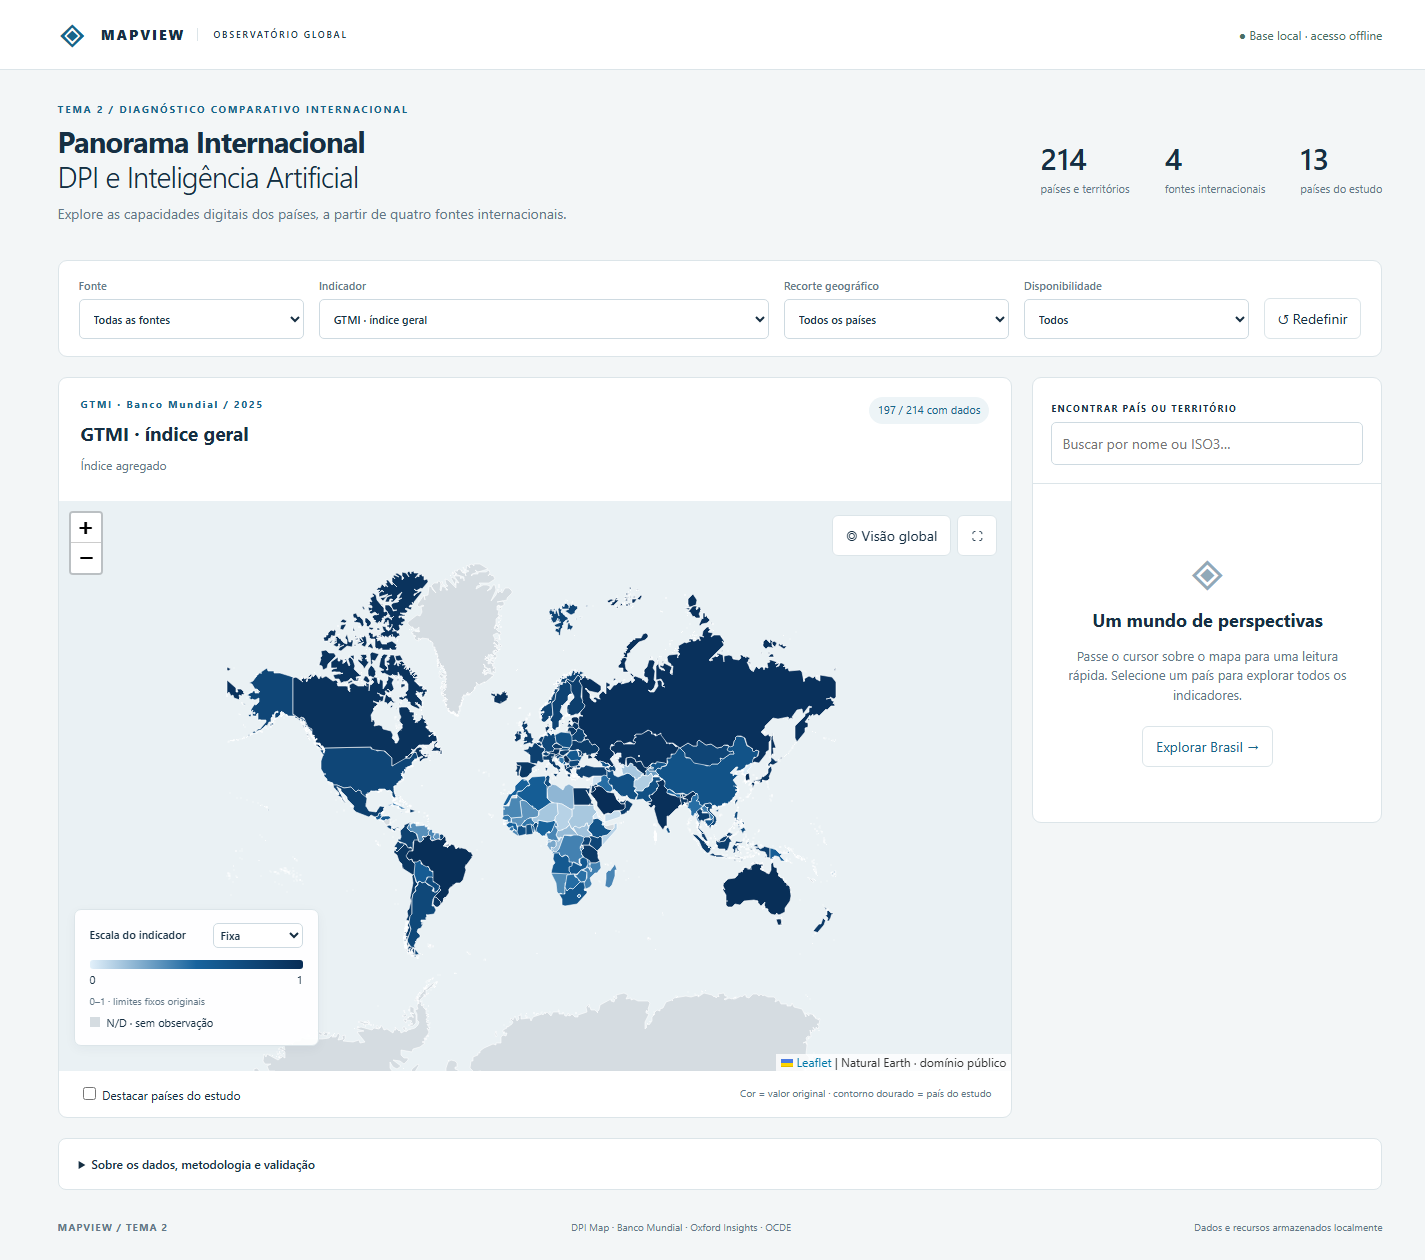
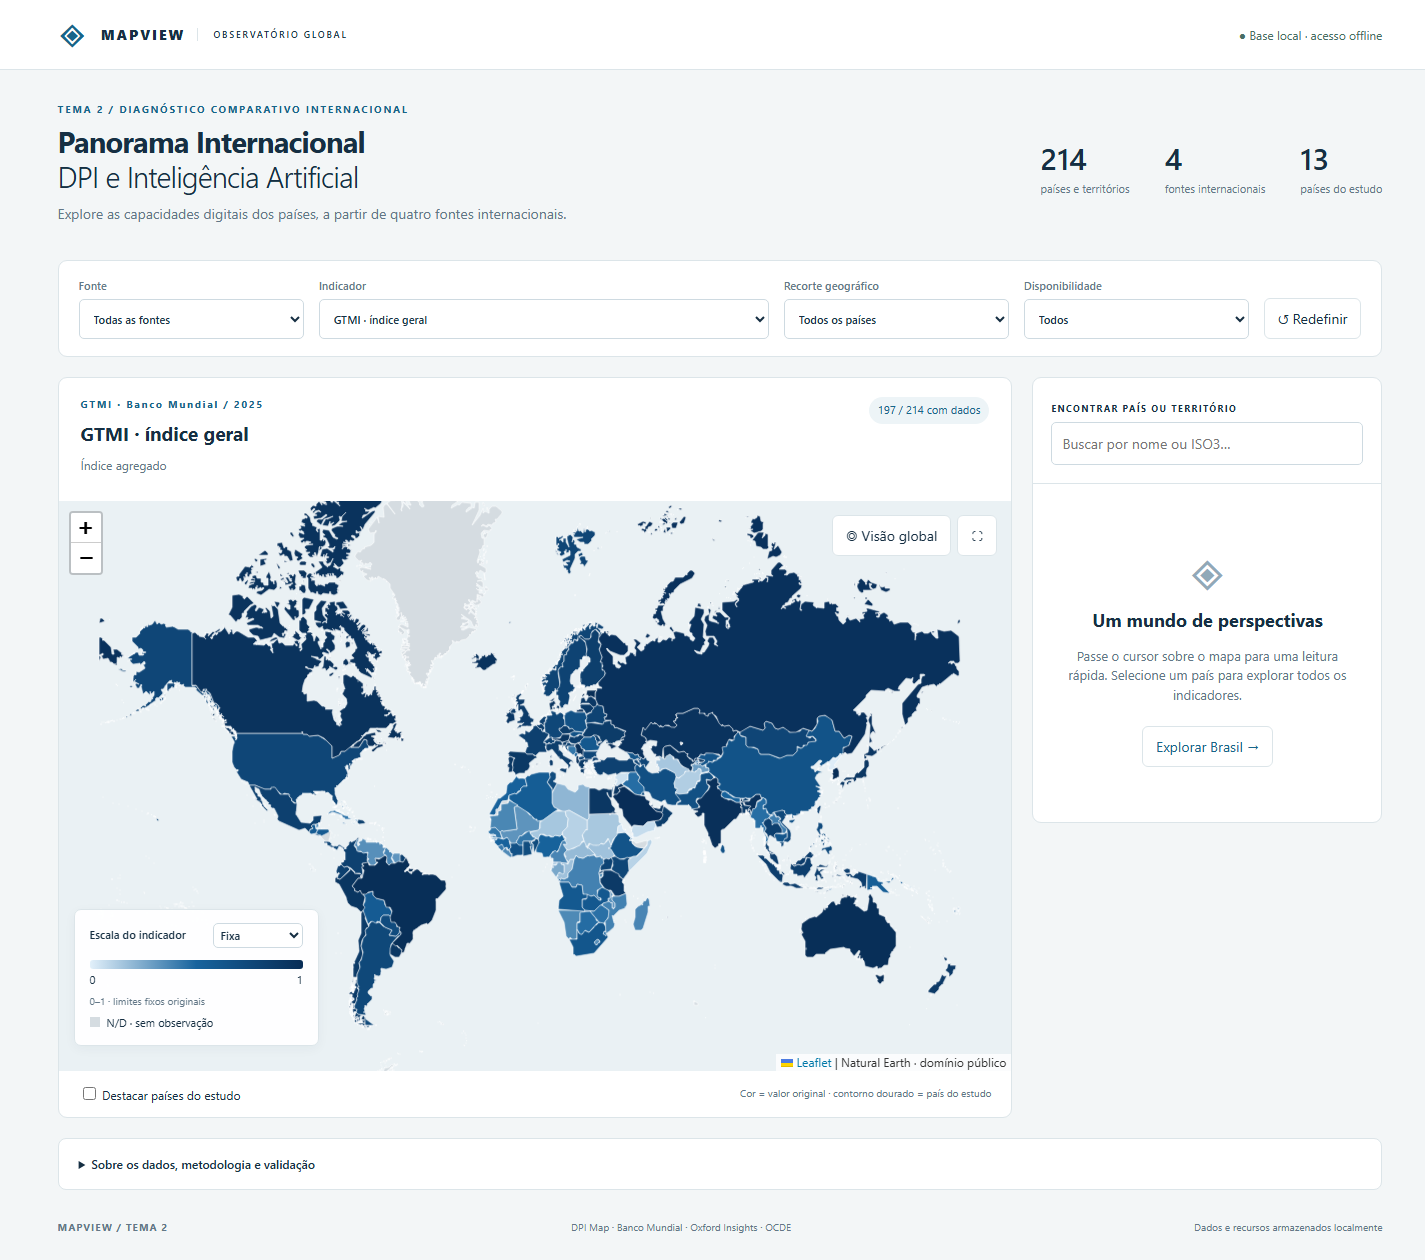
Ajustes de apresentação do popup.

Changed region(s): [[0.0618, 0.3714, 0.6793, 0.8048], [0.4014, 0.4024, 0.4323, 0.4333]]

diff --git a/css/style.css b/css/style.css
@@ -1,2 +1,17 @@
 *{box-sizing:border-box} :root{--ink:#162f43;--muted:#627787;--line:#dce5e9;--blue:#17658a;--gold:#bd882b}body{margin:0;background:#f3f6f7;color:var(--ink);font:14px/1.5 "Segoe UI",Arial,sans-serif}button,input,select{font:inherit}button,select,summary{cursor:pointer}button{border:1px solid var(--line);background:#fff;color:var(--ink);border-radius:6px;padding:9px 13px}button:hover{background:#edf4f7}button:focus-visible,a:focus-visible,input:focus-visible,select:focus-visible,summary:focus-visible{outline:3px solid #d09b38;outline-offset:2px}header{background:#fff;border-bottom:1px solid var(--line);height:70px;padding:0 4%;display:flex;align-items:center;justify-content:space-between}.brand{display:flex;align-items:center;gap:12px;font-weight:800;letter-spacing:2px;text-decoration:none;color:var(--ink)}.brand-icon{font-size:34px;color:var(--blue)}.brand small{font-size:9px;letter-spacing:1.8px;border-left:1px solid var(--line);padding-left:15px;font-weight:600}.offline{color:#476f65;font-size:12px}.intro{display:flex;justify-content:space-between;align-items:center;padding:32px 4% 28px;gap:30px}.eyebrow{font-size:10px;letter-spacing:1.7px;font-weight:700;color:var(--blue);margin:0 0 7px}h1{font-size:29px;line-height:1.22;margin:0;font-weight:650;letter-spacing:-.8px}h1 span{display:block;font-weight:350}h2{font-size:19px;margin:0}p{margin:8px 0;color:var(--muted)}.intro-stats{display:flex;gap:35px}.intro-stats strong{font-size:30px;font-weight:500}.intro-stats small{display:block;font-size:11px;color:var(--muted);font-weight:400}main{padding:0 4%}.controls{display:flex;gap:15px;align-items:end;background:#fff;border:1px solid var(--line);padding:17px 20px;border-radius:9px;margin-bottom:20px}.controls label{flex:1;min-width:100px;font-size:11px;font-weight:600;color:var(--muted)}.controls .indicator-control{flex:2}select,input[type=search]{width:100%;padding:10px;background:#fff;border:1px solid #cedae1;border-radius:5px;color:var(--ink);margin-top:5px;min-height:40px}.text-button{white-space:nowrap}.workspace{display:grid;grid-template-columns:minmax(0,1fr) 350px;gap:20px;align-items:start}.map-card,aside{border:1px solid var(--line);border-radius:9px;background:#fff;overflow:hidden}.map-heading{display:flex;justify-content:space-between;align-items:start;padding:19px 22px;gap:16px;min-height:115px}.map-heading p:last-child{font-size:12px;max-width:700px}.badge{background:#edf4f7;color:var(--blue);white-space:nowrap;font-size:11px;padding:5px 9px;border-radius:20px}.map-wrap{height:570px;position:relative;background:#eaf1f4}#map{height:100%;background:#eaf1f4}.map-actions{position:absolute;z-index:500;right:14px;top:14px;display:flex;gap:6px}.legend{position:absolute;z-index:500;left:15px;bottom:25px;width:245px;padding:13px 15px;background:#ffffffed;border:1px solid var(--line);border-radius:7px;font-size:11px;box-shadow:0 3px 12px #17344a0b}.legend-title{display:flex;align-items:center;justify-content:space-between;font-weight:600}.legend select{width:90px;font-size:11px;padding:3px;min-height:25px;margin:0}.gradient{height:9px;background:linear-gradient(90deg,#e2f0fa,#17639d,#082d56);border-radius:3px;margin:12px 0 3px}.legend-range{display:flex;justify-content:space-between}.legend p{font-size:10px;margin:6px 0}.no-data{display:inline-block;width:10px;height:10px;background:#d5dce1;margin-right:4px}.map-bottom{display:flex;justify-content:space-between;gap:12px;align-items:center;padding:13px 20px;font-size:10px;color:var(--muted)}.highlight{color:var(--ink);font-size:12px;cursor:pointer}.highlight input{accent-color:var(--gold)}.search-block{padding:18px;border-bottom:1px solid var(--line)}.search-block label{font-size:9px;font-weight:700;letter-spacing:1.4px}#results{max-height:210px;overflow:auto}#results button{display:block;width:100%;text-align:left;border:0;border-radius:0;border-bottom:1px solid var(--line);font-size:12px}.empty{padding:55px 25px;text-align:center}.empty>span{display:block;font-size:45px;color:#91a9b8}.empty h2{font-size:18px}.empty p{font-size:13px;margin:12px 0 22px}.empty button{color:var(--blue)}#country-panel{max-height:650px;overflow:auto}.country-header{padding:20px}.country-header small{font-size:11px;color:var(--muted)}.country-header h2{font-size:25px;margin:5px 0}.country-header .featured{background:#edf4f8;padding:14px;margin-top:14px;border-radius:6px}.featured strong{display:block;font-size:26px;color:var(--blue)}.country-source{border-top:1px solid var(--line);padding:12px 18px}.country-source summary{font-size:12px;font-weight:700}.metric{padding:10px 0;border-bottom:1px solid #edf1f3;font-size:12px}.metric>div{display:flex;justify-content:space-between;gap:10px}.metric strong{word-break:break-word;text-align:right}.metric p{font-size:11px;margin:4px 0}.metric small{color:var(--muted);font-size:10px}.metric a{color:var(--blue)}.export{margin-top:14px;width:100%;color:var(--blue)}.methodology{border:1px solid var(--line);border-radius:8px;background:white;margin:20px 0;padding:16px 20px;font-size:12px}.methodology summary{font-weight:600}#methodology-content{margin-top:16px;max-width:1000px}#methodology-content a{color:var(--blue)}.regional-table{overflow:auto}.regional-table table{border-collapse:collapse;width:100%;font-size:11px}.regional-table td,.regional-table th{padding:7px;text-align:left;border-bottom:1px solid var(--line)}footer{display:flex;justify-content:space-between;gap:20px;padding:10px 4% 25px;font-size:10px;color:var(--muted)}footer span:first-child{font-weight:700;letter-spacing:1px}.leaflet-tooltip.mv-tooltip{width:310px;max-height:70vh;overflow:auto;white-space:normal;padding:14px;border:1px solid var(--line);font:12px/1.5 "Segoe UI",Arial,sans-serif;color:var(--ink)}.tip-title{font-size:17px;font-weight:700}.tip-active{padding:7px 0;color:var(--blue);font-weight:600}.tip-section{border-top:1px solid var(--line);padding:6px 0}.tip-section b{font-size:10px}.tip-row{display:flex;justify-content:space-between;gap:12px}.tip-systems{font-size:10px;color:var(--muted)}.leaflet-container{font-family:"Segoe UI",Arial,sans-serif}.map-wrap:fullscreen{height:100vh}.map-wrap:fullscreen #map{height:100vh}@media(min-width:1650px){.map-wrap{height:650px}}@media(max-width:1100px){.workspace{grid-template-columns:minmax(0,1fr) 300px}.controls{flex-wrap:wrap}.controls label{flex:1 1 25%}.intro-stats{gap:18px}.map-bottom{flex-wrap:wrap}}@media(max-width:780px){.intro{display:block;padding-top:24px}.intro-stats{margin-top:22px;justify-content:space-between}.brand small,.offline{display:none}.workspace{grid-template-columns:1fr}.map-wrap{height:500px}.controls{padding:12px;gap:10px}.controls label,.controls .indicator-control{flex:1 1 45%}h1{font-size:26px}.map-heading{padding:14px;display:block}.badge{display:inline-block;margin-top:6px}.map-actions button{font-size:11px}.map-bottom>span{display:none}footer{flex-wrap:wrap}#country-panel{max-height:600px}.empty{padding:25px}.legend{width:210px}}
 .leaflet-tooltip.mv-tooltip{max-height:430px;font-size:11px}.tip-row{line-height:1.35}.tip-section{padding:4px 0}.tip-systems{line-height:1.3}
+
+/* Wider country summaries: two columns avoid scrolling on desktop. */
+.leaflet-tooltip.mv-tooltip,.mv-country-popup .leaflet-popup-content{
+ width:520px;max-width:calc(100vw - 64px);max-height:min(650px,calc(100vh - 100px));
+ overflow:auto;white-space:normal;font:12px/1.45 "Segoe UI",Arial,sans-serif;color:var(--ink);
+}
+.mv-country-popup .leaflet-popup-content{margin:16px 20px}
+.tip-toolbar{display:flex;justify-content:flex-end;align-items:center;gap:10px;margin-bottom:4px}
+.tip-copy{display:inline-flex;align-items:center;gap:6px;padding:5px 8px;font-size:11px}
+.tip-copy-status{font-size:11px;color:var(--blue)}
+.tip-grid{display:grid;grid-template-columns:1fr 1fr;gap:8px 18px;align-items:start}
+.tip-section{min-width:0;padding:7px 0}.tip-row{line-height:1.5}.tip-row span{min-width:0}
+.tip-systems{overflow-wrap:anywhere;margin-top:5px}.tip-help{display:block;margin-top:8px;color:var(--muted)}
+.mv-country-popup .leaflet-popup-close-button{top:1px;right:2px}
+@media(max-width:540px){.tip-grid{grid-template-columns:1fr;gap:4px}.leaflet-tooltip.mv-tooltip,.mv-country-popup .leaflet-popup-content{width:300px;max-height:calc(100vh - 110px)}}

diff --git a/js/tooltip.js b/js/tooltip.js
@@ -2,7 +2,7 @@
 MV.tooltip=c=>{
  const e=MV.escape,i=MV.active();if(!c)return '<b>Sem registro na planilha</b>';
  const row=(label,key)=>`<div class="tip-row"><span>${e(label)}</span><strong>${e(MV.format(c[key]))}</strong></div>`;
- return `<div class="tip-title">${e(c.pais)} <small>${e(c.iso3)}</small></div><div class="tip-active">${e(MV.label(i))}: ${e(MV.format(c[i.key]))} <small>${e(i.unit)}</small></div><div class="tip-section"><b>DPI MAP · UCL/IIPP</b>${row('Identidade digital','dpi_id_contabilizados')}${row('Pagamentos','dpi_pagamentos_contabilizados')}${row('Intercâmbio de dados','dpi_dados_contabilizados')}<div class="tip-systems">${['id','pagamentos','dados'].map(k=>e(c['dpi_'+k+'_sistemas']??'N/D')).join(' · ')}</div></div><div class="tip-section"><b>GTMI · BANCO MUNDIAL</b>${['gtmi','cgsi','psdi','dcei','gtei','grupo'].map(k=>row(k.toUpperCase(),'gtmi_'+k)).join('')}</div><div class="tip-section"><b>OXFORD INSIGHTS</b>${['total','policy_capacity','ai_infrastructure','governance','public_sector_adoption','development_diffusion','resilience'].map(k=>row(MV.labels['oxford_'+k],'oxford_'+k)).join('')}</div><div class="tip-section"><b>OCDE</b>${row('DGI','ocde_dg')}${row('OURdata','ocde_our')}</div><small>Clique para detalhes e exportação.</small>`;
+ return `<div class="tip-toolbar"><button type="button" class="tip-copy" data-copy-country="${e(c.iso3)}" title="Copiar conteúdo do popup" aria-label="Copiar conteúdo do popup"><svg width="16" height="16" viewBox="0 0 24 24" fill="none" stroke="currentColor" stroke-width="1.8" aria-hidden="true"><rect x="8" y="8" width="12" height="13" rx="2"/><path d="M16 8V5a2 2 0 0 0-2-2H5a2 2 0 0 0-2 2v10a2 2 0 0 0 2 2h3"/></svg><span>Copiar</span></button><span class="tip-copy-status" role="status"></span></div><div class="tip-content"><div class="tip-title">${e(c.pais)} <small>${e(c.iso3)}</small></div><div class="tip-active">${e(MV.label(i))}: ${e(MV.format(c[i.key]))} <small>${e(i.unit)}</small></div><div class="tip-grid"><div class="tip-section"><b>DPI MAP · UCL/IIPP</b>${row('Identidade digital','dpi_id_contabilizados')}${row('Pagamentos','dpi_pagamentos_contabilizados')}${row('Intercâmbio de dados','dpi_dados_contabilizados')}<div class="tip-systems">${['id','pagamentos','dados'].map(k=>e(c['dpi_'+k+'_sistemas']??'N/D')).join(' · ')}</div></div><div class="tip-section"><b>GTMI · BANCO MUNDIAL</b>${['gtmi','cgsi','psdi','dcei','gtei','grupo'].map(k=>row(k.toUpperCase(),'gtmi_'+k)).join('')}</div><div class="tip-section"><b>OXFORD INSIGHTS</b>${['total','policy_capacity','ai_infrastructure','governance','public_sector_adoption','development_diffusion','resilience'].map(k=>row(MV.labels['oxford_'+k],'oxford_'+k)).join('')}</div><div class="tip-section"><b>OCDE</b>${row('DGI','ocde_dg')}${row('OURdata','ocde_our')}</div></div></div><small class="tip-help">Clique no país para fixar. Clique fora para voltar ao mouse over.</small>`;
 };
 MV.selectCountry=(code,zoom=false)=>{
  const c=MV.countries.get(code);if(!c)return;MV.state.selected=code;const e=MV.escape,i=MV.active();
@@ -18,3 +18,25 @@ MV.exportCountry=c=>{
  const rows=MV.data.metadata.dictionary.map(d=>{const m=MV.data.indicators.find(i=>i.key===d.campo)||MV.data.metadata.references[d.campo]||{};return [c.iso3,c.pais,d.campo,c[d.campo],d.unidade,d.descricao,d.fonte,m.year??m.ano_ref,m.url??m.url_fonte];});
  const blob=new Blob(['\ufeff'+[header,...rows].map(r=>r.map(cell).join(';')).join('\r\n')],{type:'text/csv;charset=utf-8'});const url=URL.createObjectURL(blob);const a=document.createElement('a');a.href=url;a.download=c.iso3+'_mapview.csv';a.click();setTimeout(()=>URL.revokeObjectURL(url),1000);
 };
+
+// Copy exactly the displayed country summary, without toolbar and interaction hints.
+MV.copyTooltip=async button=>{
+ const root=button.closest('.mv-tooltip,.mv-country-popup');
+ const status=root.querySelector('.tip-copy-status');
+ const text=root.querySelector('.tip-content').innerText;
+ const fallback=()=>{
+  const area=document.createElement('textarea');area.value=text;
+  area.style.cssText='position:fixed;left:-9999px;top:0';document.body.appendChild(area);
+  area.select();const copied=document.execCommand('copy');area.remove();button.focus();
+  if(!copied)throw new Error('Copy unavailable');
+ };
+ try{
+  if(navigator.clipboard&&navigator.clipboard.writeText){try{await navigator.clipboard.writeText(text);}catch(error){fallback();}}
+  else fallback();
+  status.textContent='Conteúdo copiado';
+ }catch(error){status.textContent='Não foi possível copiar. Selecione o texto para copiar manualmente.';}
+};
+document.addEventListener('click',event=>{
+ const button=event.target.closest('[data-copy-country]');
+ if(button){event.preventDefault();event.stopPropagation();MV.copyTooltip(button);}
+});

diff --git a/js/map.js b/js/map.js
@@ -5,8 +5,10 @@ MV.initMap=()=>{
  MV.layer=L.geoJSON(MV.data.geo,{style:()=>({color:'#fff',weight:.7,fillOpacity:1,fillColor:'#d5dce1'}),onEachFeature:(feature,layer)=>{
   const code=feature.properties.iso3,c=MV.countries.get(code);if(!MV.geometry.has(code))MV.geometry.set(code,[]);MV.geometry.get(code).push(layer);
   layer.bindTooltip(()=>c?MV.tooltip(c):`<b>${MV.escape(feature.properties.name)}</b><br>Sem registro na planilha`,{className:'mv-tooltip',interactive:true,sticky:true,direction:'auto',opacity:1});
-  layer.on('mouseover',()=>{layer.setStyle({weight:2,color:'#718da1'});layer.bringToFront();});layer.on('mouseout',()=>MV.paintLayer(layer));layer.on('click',()=>{if(c)MV.selectCountry(code);});
+  layer.on('tooltipopen',()=>{if(MV.pinnedPopup)layer.closeTooltip();});
+  layer.on('mouseover',()=>{layer.setStyle({weight:2,color:'#718da1'});layer.bringToFront();});layer.on('mouseout',()=>MV.paintLayer(layer));layer.on('click',event=>{if(c){MV.selectCountry(code);MV.pinTooltip(layer,event.latlng||layer.getBounds().getCenter());}});
  }}).addTo(MV.map);
+ document.addEventListener('click',event=>{if(MV.pinnedPopup&&!event.target.closest('.mv-country-popup'))MV.unpinTooltip();},true);
  document.getElementById('global').onclick=()=>MV.map.stop().fitBounds([[-58,-175],[80,180]],{padding:[12,12],animate:false});
  document.getElementById('fullscreen').onclick=async()=>{try{if(document.fullscreenElement)await document.exitFullscreen();else await document.getElementById('map-wrap').requestFullscreen();}catch(e){document.getElementById('scale-note').textContent='Tela cheia indisponível neste navegador.';}};
  document.addEventListener('fullscreenchange',()=>setTimeout(()=>MV.map.invalidateSize(),100));
@@ -14,3 +16,16 @@ MV.initMap=()=>{
 MV.color=(value,range)=>{if(!MV.numeric(value)||!range)return '#d5dce1';const t=range[1]===range[0]?.5:Math.max(0,Math.min(1,(value-range[0])/(range[1]-range[0])));const stops=[[226,240,250],[23,99,157],[8,45,86]],x=t*2,j=Math.min(1,Math.floor(x)),f=x-j;return 'rgb('+stops[j].map((v,k)=>Math.round(v+(stops[j+1][k]-v)*f)).join(',')+')';};
 MV.paintLayer=layer=>{const c=MV.countries.get(layer.feature.properties.iso3),eligible=MV.eligible(c),selected=c&&c.iso3===MV.state.selected,highlight=c&&c.recorte_prioritario===1&&MV.state.highlight;layer.setStyle({fillColor:MV.color(eligible?c[MV.state.indicator]:null,MV.currentRange),fillOpacity:c&&!eligible?.18:1,color:selected?'#153a53':highlight?'#b57b1a':'#fff',weight:selected?2.6:highlight?2:.6,opacity:c&&!eligible?.3:1});};
 MV.paint=()=>{MV.currentRange=MV.range();MV.layer.eachLayer(MV.paintLayer);};
+
+MV.unpinTooltip=()=>{
+ if(MV.pinnedPopup){const popup=MV.pinnedPopup;MV.pinnedPopup=null;MV.map.closePopup(popup);}
+};
+MV.pinTooltip=(layer,latlng)=>{
+ MV.unpinTooltip();MV.layer.eachLayer(item=>item.closeTooltip());
+ const country=MV.countries.get(layer.feature.properties.iso3);
+ const popup=L.popup({className:'mv-country-popup',maxWidth:560,minWidth:240,closeButton:true,autoPan:true,autoPanPadding:[16,16],closeOnClick:false})
+  .setLatLng(latlng).setContent(MV.tooltip(country));
+ MV.pinnedPopup=popup;
+ popup.on('remove',()=>{if(MV.pinnedPopup===popup)MV.pinnedPopup=null;});
+ popup.addTo(MV.map);
+};

diff --git a/js/filters.js b/js/filters.js
@@ -21,6 +21,6 @@ MV.initFilters=()=>{
  MV.populate();document.getElementById('source').onchange=()=>{MV.populate();MV.update();};document.getElementById('indicator').onchange=e=>{MV.state.indicator=e.target.value;MV.update();};
  for(const id of ['scope','availability','scale'])document.getElementById(id).onchange=e=>{MV.state[id]=e.target.value;MV.update();};
  document.getElementById('highlight').onchange=e=>{MV.state.highlight=e.target.checked;MV.paint();};document.getElementById('search').oninput=MV.search;
- document.getElementById('reset').onclick=()=>{Object.assign(MV.state,{indicator:'gtmi_gtmi',scope:'all',availability:'all',scale:'fixed',highlight:false,selected:null});for(const id of ['source','scope','availability'])document.getElementById(id).value='all';document.getElementById('scale').value='fixed';document.getElementById('highlight').checked=false;document.getElementById('search').value='';document.getElementById('country-panel').innerHTML=MV.emptyPanel;document.getElementById('brazil').onclick=()=>MV.selectCountry('BRA',true);MV.populate();MV.update();MV.layer.eachLayer(layer=>layer.closeTooltip());MV.map.stop().fitBounds([[-58,-175],[80,180]],{padding:[12,12],animate:false});};
+ document.getElementById('reset').onclick=()=>{MV.unpinTooltip();Object.assign(MV.state,{indicator:'gtmi_gtmi',scope:'all',availability:'all',scale:'fixed',highlight:false,selected:null});for(const id of ['source','scope','availability'])document.getElementById(id).value='all';document.getElementById('scale').value='fixed';document.getElementById('highlight').checked=false;document.getElementById('search').value='';document.getElementById('country-panel').innerHTML=MV.emptyPanel;document.getElementById('brazil').onclick=()=>MV.selectCountry('BRA',true);MV.populate();MV.update();MV.layer.eachLayer(layer=>layer.closeTooltip());MV.map.stop().fitBounds([[-58,-175],[80,180]],{padding:[12,12],animate:false});};
  document.getElementById('brazil').onclick=()=>MV.selectCountry('BRA',true);MV.update();
 };

diff --git a/scripts/test_browser.py b/scripts/test_browser.py
@@ -50,6 +50,13 @@ try:
  time.sleep(.6)
  test('Global view remains stable after reset',"MV.map.getZoom()<2")
  call('Emulation.setDeviceMetricsOverride',dict(width=1440,height=1050,deviceScaleFactor=1,mobile=False));time.sleep(.4)
+ test('Country click pins summary and retains detail panel',"(()=>{const l=MV.geometry.get('BRA')[0];l.fire('click',{latlng:L.latLng(-10,-50)});return !!MV.pinnedPopup&&MV.pinnedPopup.isOpen()&&document.querySelector('.mv-country-popup .tip-title').textContent.includes('Brasil')&&MV.state.selected==='BRA';})()")
+ test('Pinned summary survives mouseout and ignores other hover',"(()=>{const popup=MV.pinnedPopup,pos=popup.getLatLng();MV.geometry.get('BRA')[0].fire('mouseout');const other=MV.geometry.get('USA')[0];other.openTooltip(L.latLng(38,-100));return popup.isOpen()&&popup.getLatLng().equals(pos)&&!other.isTooltipOpen();})()")
+ test('Desktop summary has no vertical scroll',"(()=>{const el=document.querySelector('.mv-country-popup .leaflet-popup-content');return el.clientWidth>=500&&el.scrollHeight<=el.clientHeight+1;})()")
+ test('Copy uses country text and retains pinned popup',"(async()=>{let copied='';Object.defineProperty(navigator,'clipboard',{configurable:true,value:{writeText:async text=>{copied=text;}}});const button=document.querySelector('.mv-country-popup .tip-copy');button.click();await new Promise(resolve=>setTimeout(resolve,0));return !!MV.pinnedPopup&&copied.includes('Brasil')&&copied.includes('OXFORD INSIGHTS')&&!copied.includes('Clique no país')&&document.querySelector('.mv-country-popup .tip-copy-status').textContent==='Conteúdo copiado';})()")
+ test('Outside click unpins and hover resumes',"(()=>{document.querySelector('header').click();const l=MV.geometry.get('USA')[0];l.openTooltip(L.latLng(38,-100));const ok=!MV.pinnedPopup&&l.isTooltipOpen();l.closeTooltip();return ok;})()")
+ test('Click another country switches pinned summary',"(()=>{MV.geometry.get('BRA')[0].fire('click',{latlng:L.latLng(-10,-50)});MV.geometry.get('USA')[0].fire('click',{latlng:L.latLng(38,-100)});return MV.pinnedPopup.getContent().includes('Estados Unidos');})()")
+ js("document.getElementById('reset').click()")
  png=call('Page.captureScreenshot',dict(format='png',captureBeyondViewport=True));(ROOT/'validation/desktop.png').write_bytes(base64.b64decode(png['data']))
  call('Emulation.setDeviceMetricsOverride',dict(width=390,height=844,deviceScaleFactor=1,mobile=True));time.sleep(.4)
  test('Mobile layout has no horizontal overflow',"document.documentElement.scrollWidth<=window.innerWidth")

diff --git a/README.md b/README.md
@@ -47,3 +47,7 @@ O conversor usa ZIP/XML da biblioteca padrão, lê as abas por seus nomes e rela
 ## Licenças e origem cartográfica
 
 Leaflet 1.9.4, licença BSD-2-Clause em `vendor/leaflet/LICENSE`, obtido de https://leafletjs.com/. Fronteiras Natural Earth (domínio público), distribuídas por https://github.com/datasets/geo-countries sob ODC PDDL. Cópia local em `data/world.geojson`. Bibliotecas e fronteiras foram obtidas durante o desenvolvimento; nenhuma · baixada em execução. As métricas e links das quatro fontes são fornecidos no dicionário e nos metadados originais.
+
+## Popup dos países
+
+O resumo usa duas colunas em telas maiores. Clique no país para fixá-lo e ler com calma; o painel detalhado também é atualizado. Clique fora do popup para liberar o mouse over, ou em outro país para fixar o novo resumo. Use o ícone Copiar para enviar o conteúdo à área de transferência. Em telas pequenas, a janela fica limitada à área visível e permite rolagem quando necessário.
